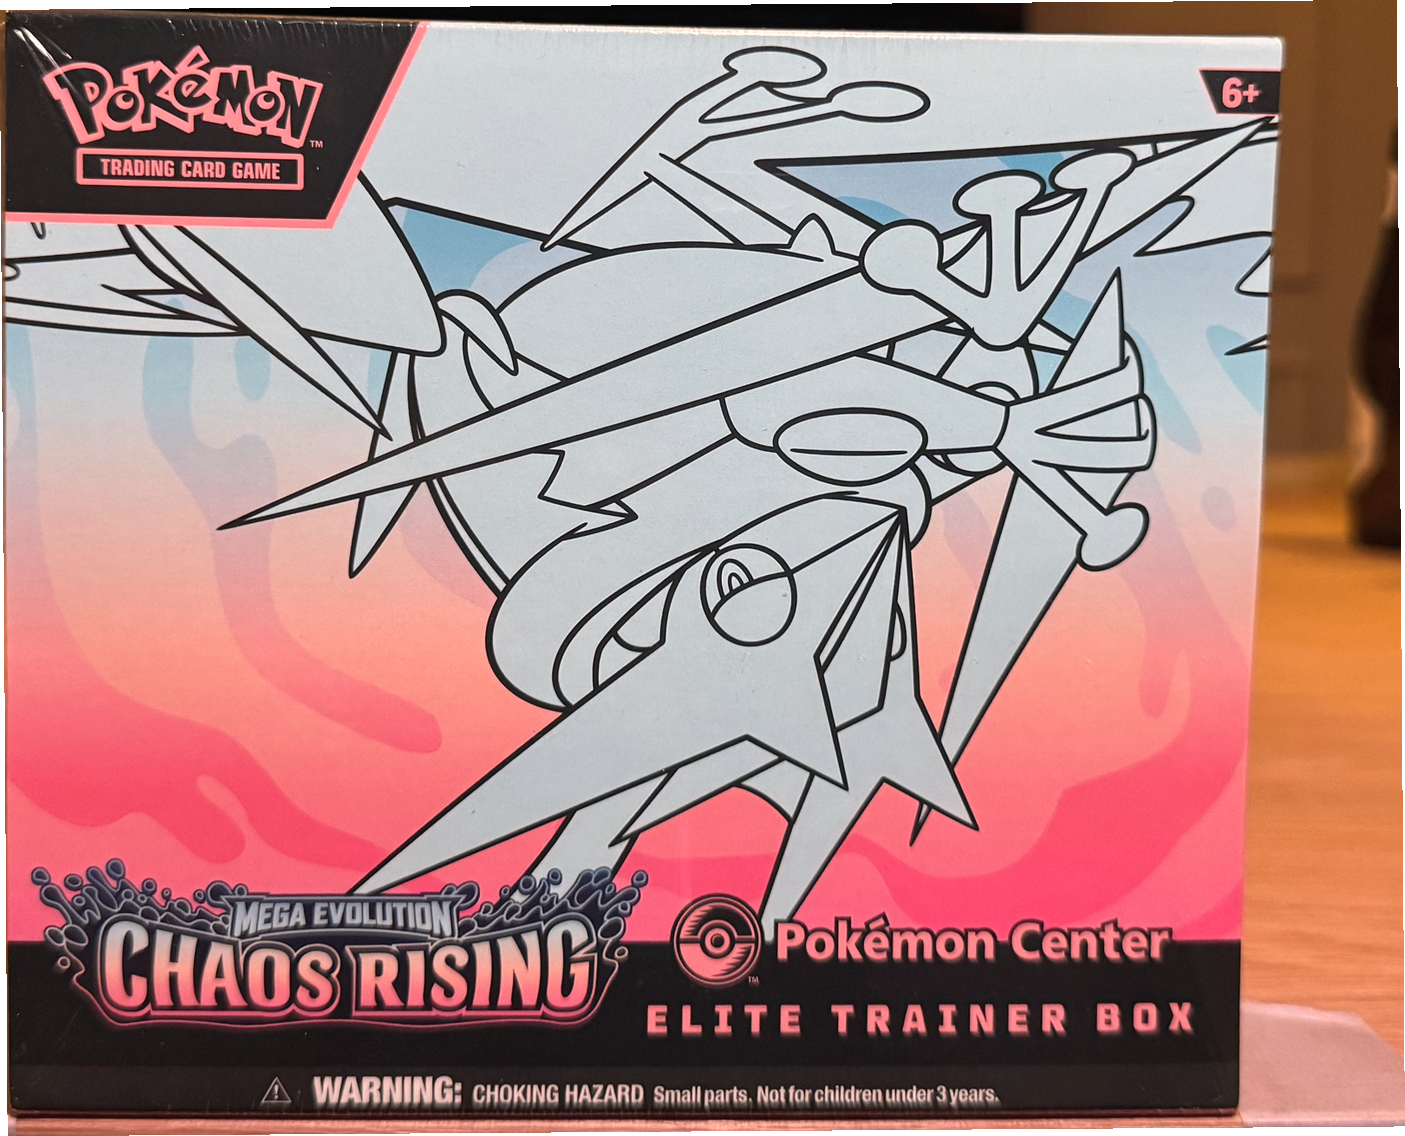
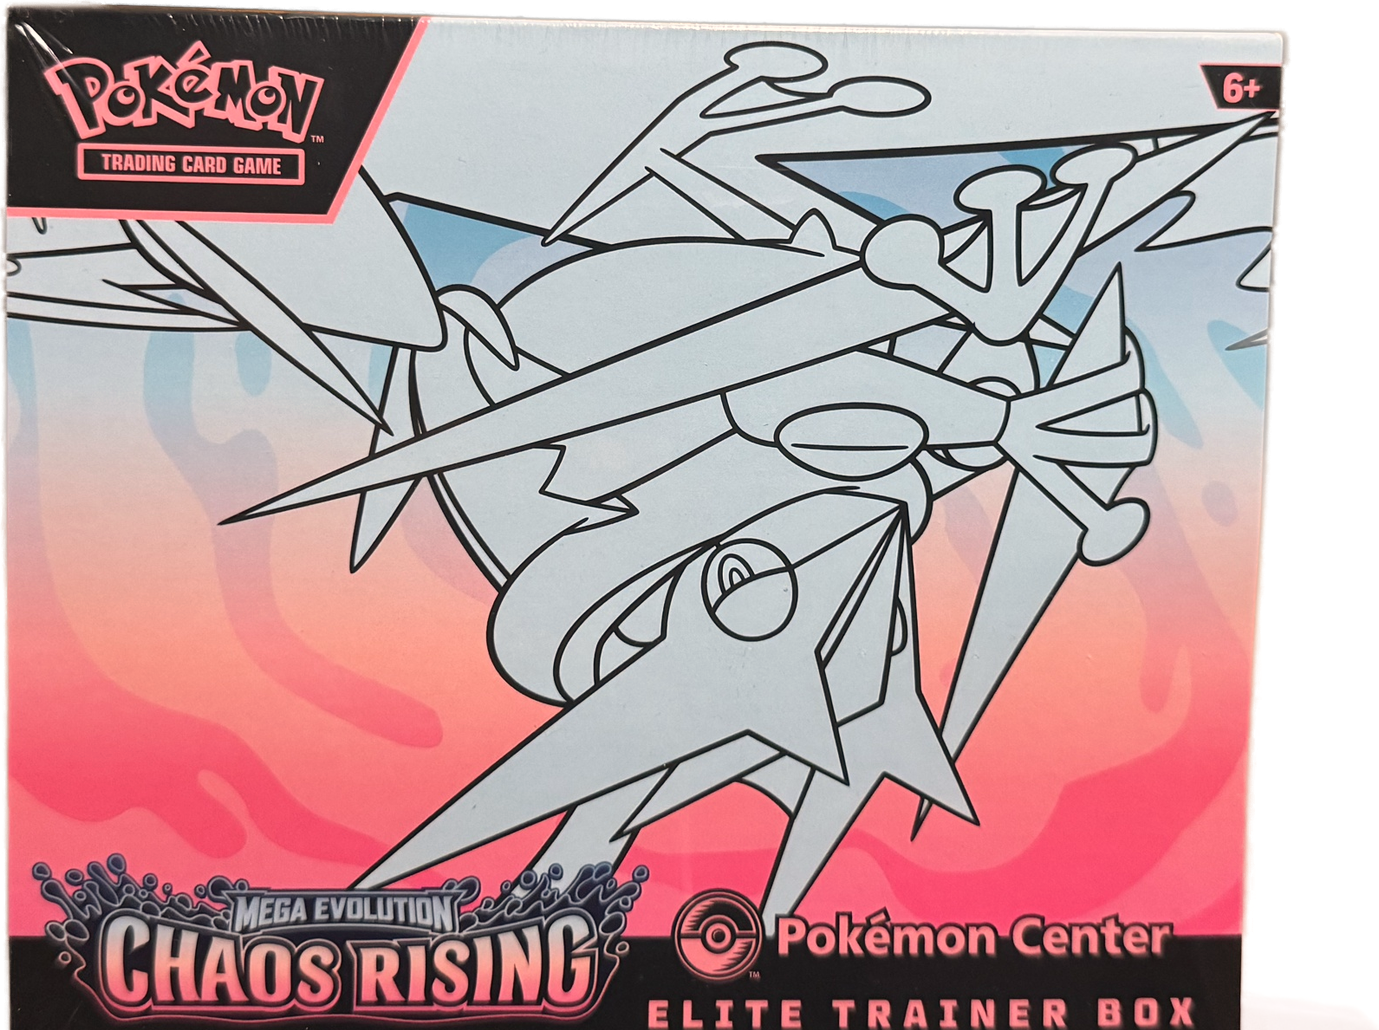
alle achttien Marktplaats-beelden op de nieuwe opnames
Laatste drie correcties: de Chaos Rising Pokemon Centre-doos stond nog op
een houten balk, net als de Prismatic Super-Premium en de Ascended
Heroes-bundeldisplay. Alle drie met de hand afgesneden op de sprong in
helderheid aan de onderrand van de doos.

advertentiepakket pakt nu alleen de Marktplaats-beelden. Daarachter stonden
de webshopbeelden als extra hoeken, maar die komen uit de oude opnames van
2048x1536 waar Bram zelf niet tevreden over was. Twee reeksen door elkaar
in een advertentie is zichtbaar: andere scherpte, andere kleur. Dat scheelt
per advertentie een paar foto's, maar de achttien die overblijven zijn
allemaal van hetzelfde exemplaar en van dezelfde kwaliteit.

Claude-Session: https://claude.ai/code/session_01WAr9BuuVNs3MhH58LKB4bC

diff --git a/brams-collectibles/sjablonen/advertentiepakket.py b/brams-collectibles/sjablonen/advertentiepakket.py
@@ -64,9 +64,16 @@ def main():
     with zipfile.ZipFile(doel, 'w', zipfile.ZIP_DEFLATED) as z:
         for nr, r in enumerate(klaar, 1):
             sku, map_ = r['sku'], f'{nr:02d} {mapnaam(r)}'
-            beelden = [HIER / 'export' / 'marktplaats' / f'{sku}.png']
-            beelden += sorted((HIER / 'export' / 'webshop').glob(f'{sku}-*.png'),
-                              key=lambda p: int(p.stem.rsplit('-', 1)[1]))[1:]
+            # Alleen de Marktplaats-beelden, en dat is met opzet. Hier stonden
+            # de webshopbeelden achter als extra hoeken, maar die komen uit de
+            # oude opnames — 2048x1536, en Bram was er zelf niet tevreden over.
+            # In september 2026 heeft hij alles opnieuw gefotografeerd op
+            # 5712x4284. Twee reeksen door elkaar in een advertentie is
+            # zichtbaar: andere scherpte, andere kleur.
+            mp = HIER / 'export' / 'marktplaats'
+            beelden = [mp / f'{sku}.png']
+            beelden += sorted(mp.glob(f'{sku}-*.png'),
+                              key=lambda p: int(p.stem.rsplit('-', 1)[1]))
 
             for i, b in enumerate(beelden, 1):
                 z.writestr(f'{map_}/{i}.jpg', jpeg(b))
@@ -82,8 +89,8 @@ def main():
                 teksten.marktplaats(r, alles),
             ])
             z.writestr(f'{map_}/advertentie.txt', tekst)
-            regels.append(f'{nr:2d}. {r["naam"]} — {teksten.prijs(r)} — '
-                          f'{len(beelden)} foto\'s')
+            aantal = f'{len(beelden)} foto' + ('' if len(beelden) == 1 else "'s")
+            regels.append(f'{nr:2d}. {r["naam"]} — {teksten.prijs(r)} — {aantal}')
 
         niet = [r for r in alles if r['aantal'] and r not in klaar]
         if niet:

diff --git a/brams-collectibles/sjablonen/uitsnijden.py b/brams-collectibles/sjablonen/uitsnijden.py
@@ -293,7 +293,7 @@ MET_VOETSTUK = {
 # van precies dezelfde breedte. Hier de hoogte waarop het masker wordt
 # afgesneden, als deel van de hoogte van het masker zelf — met de hand
 # opgemeten aan de sprong in helderheid op de onderrand van de doos.
-HANDSNEE = {'BC-AH-BNDD-N2': 0.776, 'BC-PE-SPC-N1': 0.80}
+HANDSNEE = {'BC-AH-BNDD-N2': 0.776, 'BC-PE-SPC-N1': 0.80, 'BC-CR-PCETB-N1': 0.921}
 
 # Opnames van een doos die recht voor de lens staat en waar rembg een hap uit
 # het masker neemt. Zie masker_rechthoek. Met het oog vastgesteld, want een
